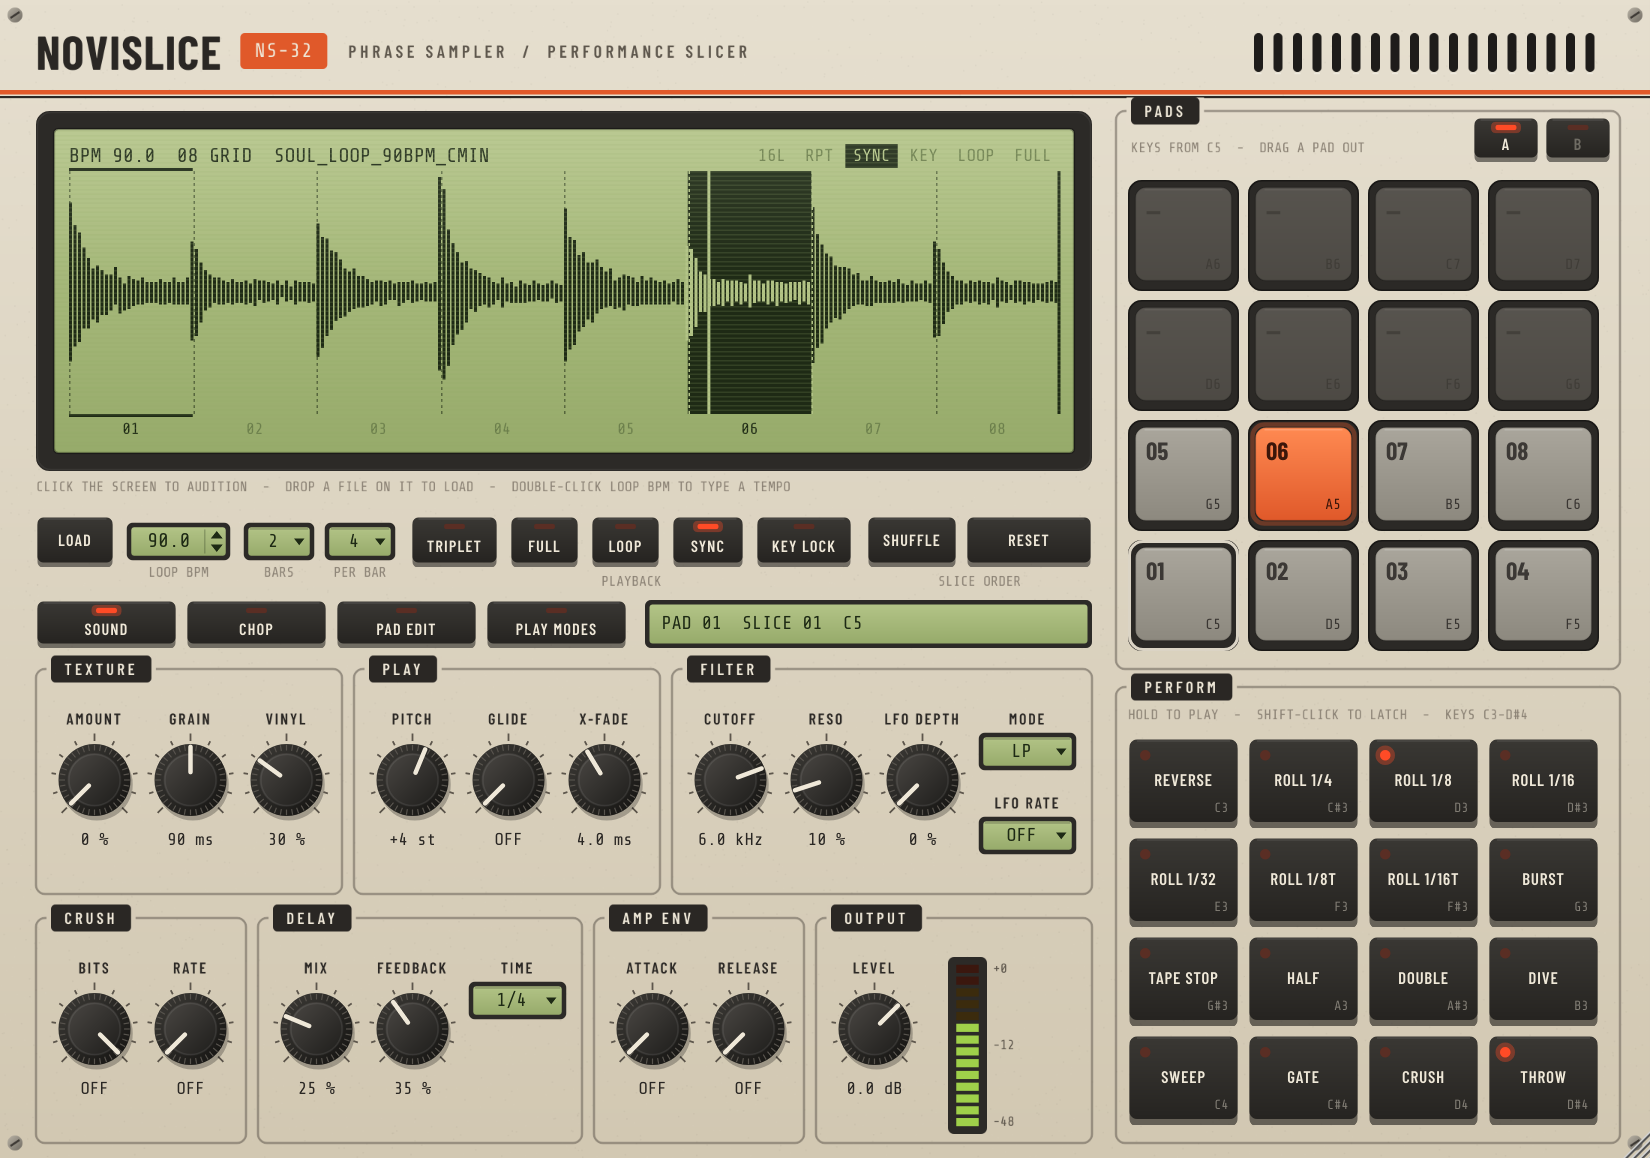
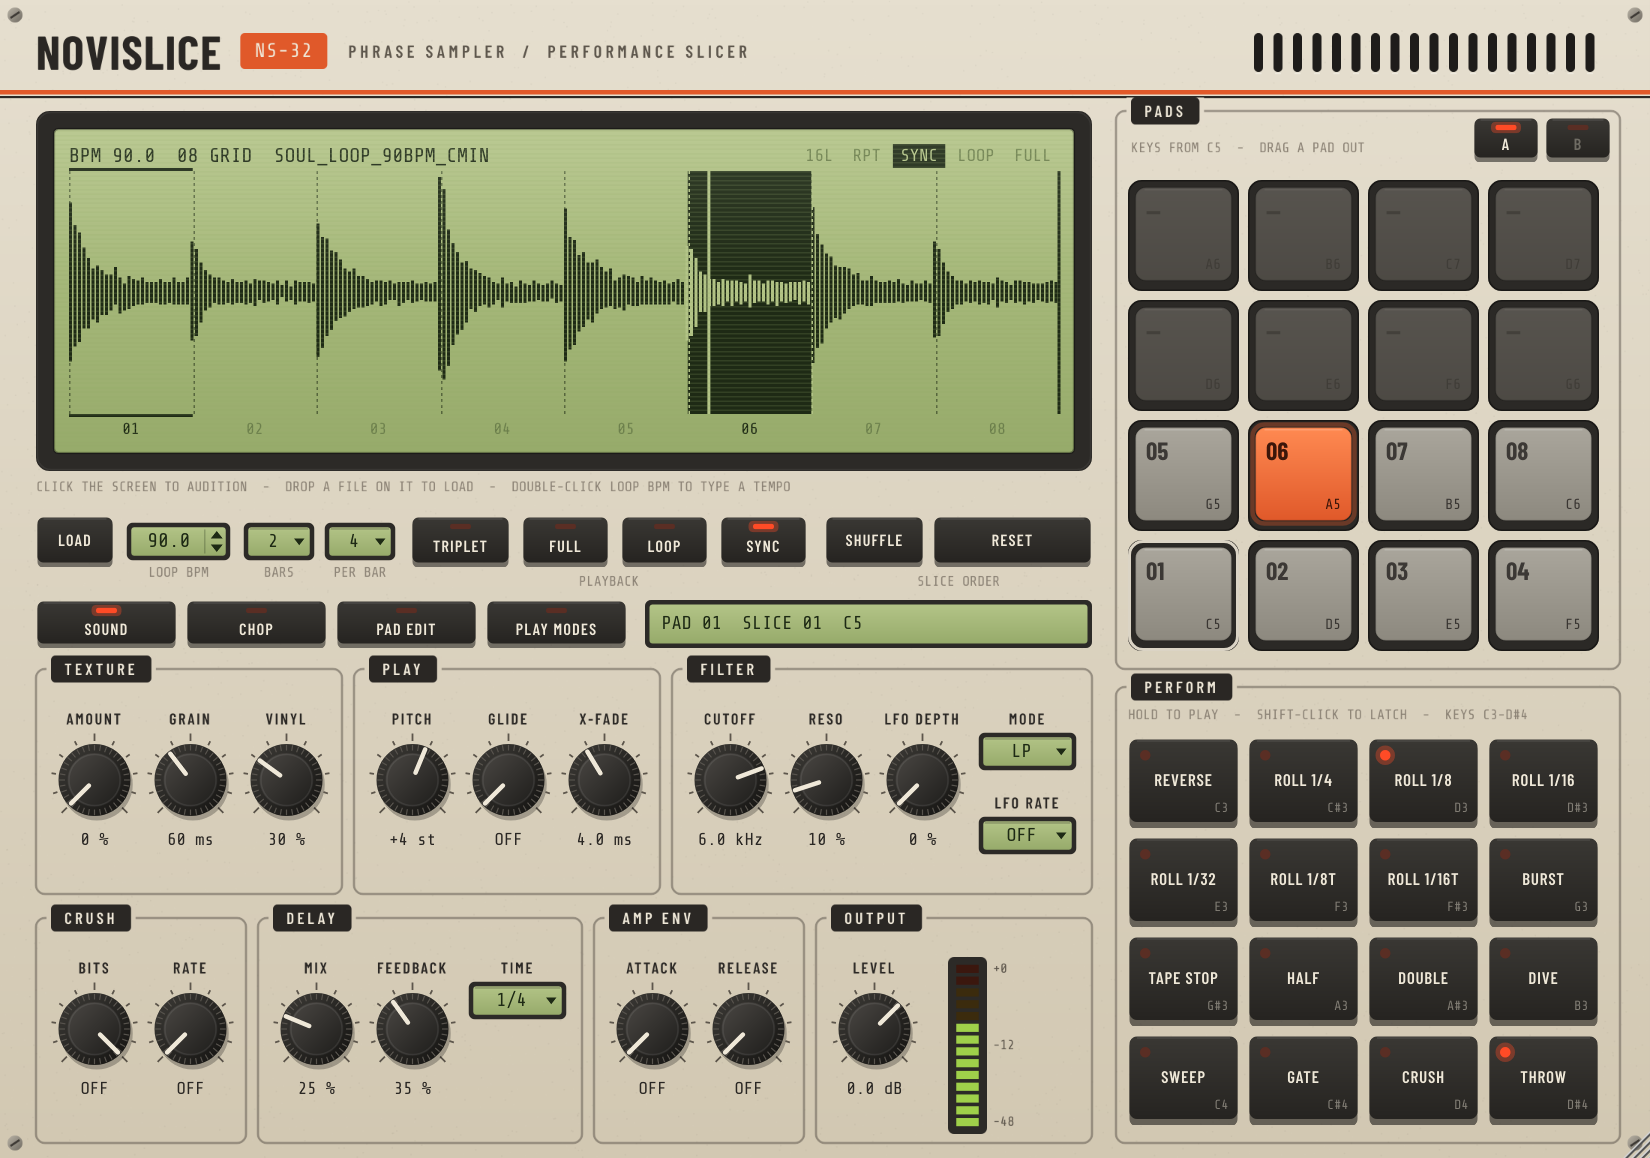
Sync follows the DAW tempo without changing pitch
Key Lock is now always on (the button is gone); the grain engine keeps
the loop's tone whenever Sync changes its speed. Default grain size is
60 ms, which suits drums better.

Claude-Session: https://claude.ai/code/session_01HKN5csNwU85X9EXRxmhBZq

Changed region(s): [[0.2473, 0.4352, 0.6182, 0.5285], [0.4945, 0.1244, 0.5873, 0.1554], [0.0927, 0.6528, 0.1236, 0.6839]]

diff --git a/Source/PluginEditor.cpp b/Source/PluginEditor.cpp
@@ -408,7 +408,6 @@ void LcdDisplay::paint (juce::Graphics& g)
     auto on = [this] (const char* id) { return proc.apvts.getRawParameterValue (id)->load() > 0.5f; };
     flag ("FULL", on ("full"));
     flag ("LOOP", on ("loop"));
-    flag ("KEY", on ("keylock"));
     flag ("SYNC", on ("sync"));
     flag ("RPT", on ("noteRepeat"));
     flag ("16L", on ("sixteen"));
@@ -932,7 +931,6 @@ FacePanel::FacePanel (NoviSliceProcessor& p) : proc (p)
     addToggle ("full", "FULL", -1);
     addToggle ("loop", "LOOP", -1);
     addToggle ("sync", "SYNC", -1);
-    addToggle ("keylock", "KEY LOCK", -1);
 
     // ---- SOUND ----
     addKnob ("texAmount", "AMOUNT", pageSound);
@@ -1276,12 +1274,11 @@ void FacePanel::resized()
         bpmBox.setBounds (x, y + 4, 70, 26); x += 70 + 8;
         byId["bars"]->setBounds (x, y + 4, 48, 26); x += 48 + 6;
         byId["slices"]->setBounds (x, y + 4, 48, 26); x += 48 + 10;
-        next (*byId["triplet"], 58);
-        next (*byId["full"], 46);
-        next (*byId["loop"], 46);
-        next (*byId["sync"], 48);
-        next (*byId["keylock"], 64, 10);
-        next (shuffleButton, 60, 6);
+        next (*byId["triplet"], 66);
+        next (*byId["full"], 58);
+        next (*byId["loop"], 58);
+        next (*byId["sync"], 58, 12);
+        next (shuffleButton, 66, 6);
         resetButton.setBounds (x, y, 728 - x, h);
     }
 
@@ -1445,7 +1442,7 @@ void FacePanel::paintChassis (juce::Graphics& g)
     g.drawText ("BARS", byId["bars"]->getBounds().translated (0, 28).withHeight (12), juce::Justification::centred, false);
     g.drawText ("PER BAR", byId["slices"]->getBounds().translated (0, 28).withHeight (12), juce::Justification::centred, false);
     g.drawText ("SLICE ORDER", shuffleButton.getBounds().getUnion (resetButton.getBounds()).translated (0, 38).withHeight (12), juce::Justification::centred, false);
-    g.drawText ("PLAYBACK", byId["triplet"]->getBounds().getUnion (byId["keylock"]->getBounds()).translated (0, 38).withHeight (12),
+    g.drawText ("PLAYBACK", byId["triplet"]->getBounds().getUnion (byId["sync"]->getBounds()).translated (0, 38).withHeight (12),
                 juce::Justification::centred, false);
 
     // sections for this page

diff --git a/Tests/EngineTest.cpp b/Tests/EngineTest.cpp
@@ -240,18 +240,24 @@ int main()
         Rig r (makeSine (440.0, 8.0));    // auto tempo = 120
         r.p.sync = true; r.apply();
         r.t.bpm = 60.0;
-        auto o = r.play (0, 0.5);
-        CHECK (std::abs (estimateHz (o, 4800, 19200) - 220.0) < 8.0, "sync without key lock: half speed = octave down");
-        r.p.keyLock = true; r.apply();
+        auto o = r.play (0, 1.2);
+        CHECK (std::abs (estimateHz (o, 4800, 19200) - 440.0) < 12.0, "sync at half the tempo keeps the tone");
+        CHECK (peakIn (o, 0.85, 0.95) > 0.2f && peakIn (o, 1.05, 1.2) < 0.05f, "...and the slice stretches to 1 s");
+        r.t.bpm = 180.0;
         o = r.play (0, 0.5);
-        CHECK (std::abs (estimateHz (o, 4800, 19200) - 440.0) < 12.0, "key lock keeps pitch");
+        CHECK (std::abs (estimateHz (o, 2400, 12000) - 440.0) < 15.0, "sync faster keeps the tone");
+        CHECK (peakIn (o, 0.36, 0.45) < 0.05f, "...and the slice shortens to 1/3 s");
         r.t.bpm = 120.0;
         r.p.pitchSemis = 12.f; r.apply();
         o = r.play (0, 0.5);
-        CHECK (std::abs (estimateHz (o, 4800, 19200) - 880.0) < 20.0, "+12 with key lock");
-        r.p.keyLock = false; r.p.sync = false; r.apply();
+        CHECK (std::abs (estimateHz (o, 4800, 19200) - 880.0) < 20.0, "+12 at the loop's own tempo");
+        r.t.bpm = 60.0;
+        o = r.play (0, 0.5);
+        CHECK (std::abs (estimateHz (o, 4800, 19200) - 880.0) < 20.0, "+12 while synced slower is still +12");
+        r.t.bpm = 120.0;
+        r.p.sync = false; r.apply();
         o = r.play (0, 0.7);
-        CHECK (std::abs (estimateHz (o, 4800, 19200) - 880.0) < 20.0, "pitch +12 without key lock");
+        CHECK (std::abs (estimateHz (o, 4800, 19200) - 880.0) < 20.0, "pitch +12 without sync");
         CHECK (peakIn (o, 0.40, 0.45) > 0.2f && peakIn (o, 0.55, 0.7) < 0.05f, "pitch keeps the tempo (slice still 0.5 s)");
         r.p.pitchSemis = 0.f; r.apply();
 

diff --git a/Source/SliceEngine.cpp b/Source/SliceEngine.cpp
@@ -427,7 +427,9 @@ void SliceEngine::process (float* left, float* right, int n, const Transport& t)
     if (params.sync && lb > 0.0)
         speed = std::clamp (hostBpm / lb, 0.25, 4.0);
 
-    const bool granularParams = params.keyLock || params.textureAmount > 0.001f;
+    // SYNC changes the speed but never the pitch: whenever the speed differs from the loop's own, the grains
+    // keep the original tone.
+    const bool granularParams = params.textureAmount > 0.001f || std::abs (speed - 1.0) > 1e-6;
     const double grainLen = std::max (256.0, (double) msToSamples (params.grainMs));
     const float edgeSamples = std::max (16.f, msToSamples (params.xfadeMs));
     const float attackSamples = std::max (1.f, msToSamples (params.attackMs));
@@ -545,7 +547,7 @@ void SliceEngine::process (float* left, float* right, int n, const Transport& t)
         // Pitch never changes the tempo: the read head always moves at the loop's (synced) speed,
         // and pitch is applied by the grains. Without Key Lock, Sync still repitches like a sampler.
         const double headRate = speed * modRate;
-        const double basePitch = pitchRatio * (params.keyLock ? 1.0 : speed) * modRate;
+        const double basePitch = pitchRatio * modRate;
         const bool granularNow = granularParams || std::abs (semis) > 0.001;
 
         // --- voices --------------------------------------------------------------

diff --git a/Source/SliceEngine.h b/Source/SliceEngine.h
@@ -88,7 +88,7 @@ struct EngineParams
     bool  triplet = false;     // 2/4/8 per bar become 3/6/12
     bool  full = false;        // keep playing past the slice to the end of the loop
     bool  sync = true;         // stretch the loop to the host tempo
-    bool  keyLock = false;     // keep pitch when syncing (granular)
+    bool  keyLock = true;      // unused: sync always keeps the pitch (kept for old projects)
     bool  loop = false;        // loop the slice while the key is held
 
     float textureAmount = 0.f; // 0..1 grain scatter

diff --git a/Source/PluginProcessor.cpp b/Source/PluginProcessor.cpp
@@ -67,7 +67,7 @@ APVTS::ParameterLayout NoviSliceProcessor::createLayout()
     toggle ("loop", "Loop", false);
 
     l.add (floatParam ("texAmount", "Texture", { 0.f, 100.f, 0.1f }, 0.f, pct));
-    l.add (floatParam ("texSize", "Grain size", skewed (20.f, 250.f, 90.f, 0.1f), 90.f, msPlain));
+    l.add (floatParam ("texSize", "Grain size", skewed (20.f, 250.f, 90.f, 0.1f), 60.f, msPlain));
     l.add (floatParam ("vinyl", "Vinyl", { 0.f, 100.f, 0.1f }, 0.f, pct));
 
     l.add (floatParam ("pitch", "Pitch", { -24.f, 24.f, 1.f }, 0.f,

diff --git a/README.md b/README.md
@@ -22,8 +22,7 @@ The sample is saved inside your FL project, so projects still open if the file m
 | **TRIPLET** | Switches to a triplet grid: 2, 4 or 8 slices per bar become 3, 6 or 12. |
 | **FULL** | Keeps playing past the end of the slice to the end of the loop. |
 | **LOOP** | Loops the slice while the key is held. |
-| **SYNC** | Plays the loop at FL Studio's tempo, using the Loop BPM. |
-| **KEY LOCK** | Keeps the original pitch when Sync changes the speed. With it off you get the classic sampler sound, where slowing down to match FL Studio also lowers the pitch. The Pitch knob never changes the tempo either way. |
+| **SYNC** | Plays the loop at FL Studio's tempo, using the Loop BPM, without changing its pitch: an 80 BPM loop in a 95 BPM session plays faster but keeps the same tone. Turn Sync off to always play the loop at its own speed. (Tip: if stretched drums sound doubled, lower *Grain* on the SOUND page.) |
 | **SHUFFLE / RESET** | Shuffles which slice each key plays, or puts them back in order. Pads show the slice they play. |
 | Click the screen | Auditions the slice you click and selects its pad. |
 
@@ -74,7 +73,7 @@ Pads show small tags for their settings: **M** mute, **S** solo, **1** one shot,
 
 ## Sound page
 
-- **Texture:** *Amount* scatters the grains for a smeared, granular sound. *Grain* sets the grain size used by Key Lock and Texture. *Vinyl* adds crackle and hiss while slices play.
+- **Texture:** *Amount* scatters the grains for a smeared, granular sound. *Grain* sets the grain size used when Sync stretches the loop, for the Pitch knob, and for Texture (smaller suits drums). *Vinyl* adds crackle and hiss while slices play.
 - **Play:** *Pitch* (±24 semitones) changes the pitch but never the tempo, so slices stay in time. *Glide* smooths pitch changes, and *X-Fade* sets the fade at slice edges and between slices.
 - **Filter:** LP, HP or BP with resonance. An LFO synced to the tempo (1/1 to 1/16) can move the cutoff.
 - **Crush:** bit depth and sample-rate reduction.
